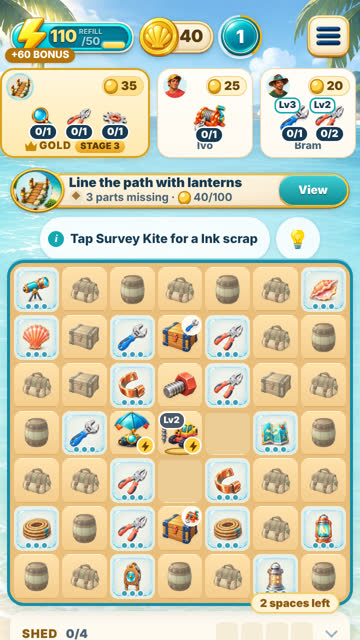
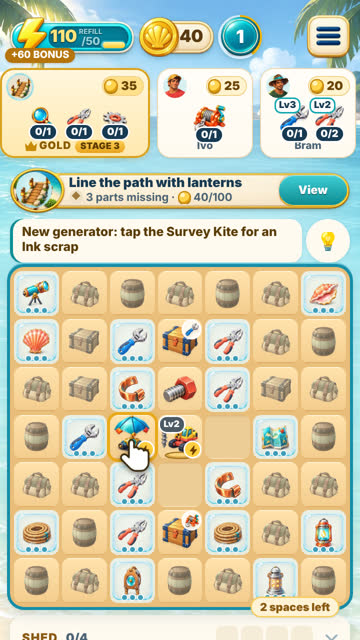
docs(v5): balance review of PR #105: rare crew goals, gold-first player, Kite discoverability
Asked/delivered/replaced rare crew orders, rare gold waits and repeats
for the normal, guide-following and gold-first players on the baseline,
the previous head and the corrected head; seven corrections tried and not
kept, with their costs; the owner decision left open; readiness for a
real-device playtest.

Claude-Session: https://claude.ai/code/session_01TAHmUwn4kp7NVEG8e1ot8o

Changed region(s): [[0.0, 0.3125, 0.9778, 1.0]]

diff --git a/docs/V5_FIRST_10_MINUTES_2026-11-14.md b/docs/V5_FIRST_10_MINUTES_2026-11-14.md
@@ -156,7 +156,7 @@ That is a choice of what to tap and which order to work on, where before there w
 | **Generator pacing** | Kite at 6.8 / 8.5 / 13.7 min instead of 14 / 17.6 / 28 (normal, whole-game run). The Rope Winch still comes from the Kite's level 3; the Kite's copies (Workshop and later stages) are unchanged. The Rover's level 3 brings nothing new now (it still makes better parts). | Earlier second generator only |
 | **Inventory** | Items on the board at 10 min: 2–7 (before 3–6); full-board actions 0%. With two chains the board holds a few more parts. | Fine |
 | **Later chapters** | Whole game, 12 seeds × 4/5/6 s: every run finishes; total time 350 → 354, 438 → 439, 526 → 530 min (+0–1%). Gold-first Chapter 1: 133 → 128, 170 → 160, 272 → 253 min. | Unchanged |
-| **Rare crew orders (owner review)** | Level 3 rare crew asks 16 → median 11 / 7 / 14 a game (4/5/6 s; min 6). Level 2: 42 → 53 / 45 / 53. Level 2 + 3 together: 58 → 64 / 52 / 67. With the Kite out earlier, the notes chain is asked at Level 2 more on the beach, which uses the drops a Level 3 ask needs. **The guard test changed** from "Level 2 ≥ 30 and Level 3 ≥ 10" to "Level 2 ≥ 30, Level 2 + 3 ≥ 45, Level 3 ≥ 5" (`tests/v5-next-build52a.test.mjs`). | **Trade-off: fewer hard rare crew goals** |
+| **Rare crew orders** | **Corrected on 2026-11-15 (§9).** On `3808698` the Kite reshuffled the order stream: Level 3 rare crew asks 16 → 7–14 a game, and only 3.3 of them delivered (baseline 9.0). The "ladder" rule in `secondaryNeed` brings back 21 asks and 9.0 deliveries a game. The original guard (Level 2 ≥ 30, Level 3 ≥ 10) is restored and passes on its seeds and on 36 more runs. | Restored; see §9 for the rare-gold-wait trade-off |
 | **Crew-order repeats (gold-first)** | An everyday order repeating one of the last four: 5.7% → 13% for the gold-first player (normal player 2.2% → 2.5–3.1%). | Minor; watch |
 
 ## 5. Saves, cloud and existing players
@@ -185,7 +185,10 @@ That is a choice of what to tap and which order to work on, where before there w
 | `tests/v5-next-first10.test.mjs` (new) | Rule, save-compatibility and first-10-minutes simulation guard |
 | `tests/v5-next-first10-policy.mjs`, `tests/v5-next-first10-metrics.mjs` (new) | The guide player and the measurements |
 | `tests/v5-next.test.mjs`, `tests/v5-next-economy-sim.mjs` | Updated for the tent's Kite; the harness also counts a generator a stage gives |
-| `tests/v5-next-build52a.test.mjs` | The rare-demand guard (§4) |
+| `tests/v5-next-build52a.test.mjs` | The original rare-demand guard, restored (§9) |
+| `v5/next/game.mjs` (2026-11-15) | `secondaryNeed`: the Level 3 "ladder" (§9) |
+| `v5/next/app.mjs` (2026-11-15) | A guide note points at a newly arrived generator once; the Daily-gift rule keyed to the camp's moves at page load (§9) |
+| `tests/v5-next-kite-browser.cjs` (new, in CI) | The Kite's card, reward, guide note and first part; no gift popup in a new camp's first session |
 
 **To revert the gameplay change:** restore the one `areas.mjs` line (`effect:{energy:8}` and its lines). The UI changes are independent of it.
 
@@ -217,3 +220,123 @@ That is a choice of what to tap and which order to work on, where before there w
 - **The energy pill** ("100 /50 +50 BONUS") is unchanged.
 - **WebKit** is tested in CI only (not installed in this sandbox).
 - **No claim** of a retention, playtime or conversion change until CrazyGames analytics on a released build show it.
+
+## 9. Balance review and corrections (2026-11-15)
+
+**Owner decisions:**
+- **Kept:** the Survey Kite from the camp tent, the quiet guide purpose line, no Daily-gift interruption for new players, existing saves and UI.
+- **To correct:** the weakened rare-order guard, the gold-first player's repetition and rare-gold waits, and the Kite's discoverability.
+
+Measured on three trees: the baseline `6bbee67`, the PR #105 head `3808698`, and the corrected head. Sources:
+- `rarefate.mjs`: asked, delivered and replaced rare crew orders; normal player, whole game, 18 runs.
+- `rare2.mjs`: the guard counts; 12 seeds × 4/5/6 s.
+- `goldwait.mjs`: rare gold-order waits, normalised per second-per-action; 36 runs per player.
+- `guidech1.mjs`: the guide-following player, Chapter 1, 12 runs.
+- `repeats.mjs`: crew-order repeats.
+
+All are in `docs/evidence/v5-first-10-minutes-2026-11-14/balance-review/`.
+
+### 9a. Rare crew orders: why Level 3 fell, and the correction
+
+**Cause.** `secondaryNeed` lists the merged parts the player can make now (a Level 2 from two held Bolts) before the goals a few drops away (where a Level 3 is). So a Level 3 was asked mostly by accident: when the Level 2 happened to be among the last four asks and was skipped. The Kite changed which orders came first, so the Level 2 was asked again and again. It used the drops two at a time, and Level 3 seldom came up.
+
+**Correction (`v5/next/game.mjs`, `secondaryNeed`, one rule): climb the ladder.** A chain whose Level 2 one of the recent everyday orders asked is asked its Level 3 next. This applies only when the Level 3 is a goal within the existing allowance:
+- `goalMax` drops away;
+- one goal at a time;
+- a generator that can drop.
+
+No rates, rewards or recipes change.
+
+**Whole game, normal player:**
+
+| | Baseline | PR #105 head | Corrected |
+|---|---|---|---|
+| Level 3 crew asks / delivered / replaced unfinished, per game | 16 / **9.0** / 7 | 10.6 / **3.3** / 7.1 | 21 / **9.0** / 11 |
+| Level 2 crew asks / delivered / replaced | 42 / 23 / 18 | 49 / 32.7 / 14.9 | 51 / 32 / 18 |
+| Original guard seeds (1–3, 5 s): Level 3 asks | 16 ✓ | 7 ✗ | 21 ✓ |
+| 12 seeds × 4/5/6 s: Level 3 asks, minimum | 16 | 6 | **21** (Level 2 minimum 51) |
+| Total game time, 4/5/6 s (median, min) | 350.5 / 438.5 / 526 | 354.5 / 439 / 530 | 352 / 440 / 528 |
+| Wait of a delivered Level 3 crew order (median / 90th percentile, min) | 4.7 / 39 | — | 2.1 / 47 |
+| Energy starvation | 0 | 0 | 0 |
+
+**The original guard is restored** (`tests/v5-next-build52a.test.mjs`: Level 2 ≥ 30, Level 3 ≥ 10). Delivered Level 3 rare crafting is back to the baseline's 9 a game, total time is unchanged, and there is no starvation. A Level 3 card is replaced unfinished more often than before (11 against 7 a game). That happens when a stage's new gold order takes the lane of the least-progressed crew order, which is baseline behaviour.
+
+### 9b. Rare gold-order waits (per second-per-action; ×5 = minutes at 5 s an action)
+
+| Player | Baseline: median / 90th pct / 99th pct / max | PR #105 head | Corrected |
+|---|---|---|---|
+| Normal (whole game, 36 runs) | 0.43 / 0.85 / 0.96 / 0.99 | 0.36 / 0.91 / 1.18 / 1.24 | 0.40 / 0.86 / **1.33 / 1.38** |
+| Gold-first (Chapter 1, 36 runs) | 0.47 / 0.88 / 1.36 / 1.36 | 0.46 / 1.11 / 1.48 / 1.49 | same as PR #105 head |
+| Guide-following (Chapter 1, 12 runs) | 0.49 / 1.30 / – / 3.2 | 0.46 / 1.08 / – / 2.66 | 0.39 / **1.64** / – / 3.49 |
+
+**What this shows:**
+- The median and the typical wait are unchanged or better.
+- **The slowest rare gold orders wait longer:**
+  - normal player: 99th percentile 0.96 → 1.33, about +1.9 min at 5 s an action;
+  - guide-following player: 90th percentile 1.30 → 1.64.
+- These are two stages: the Vault door's ring (a Gear assembly) and the harbour registry's Travel notebook. Both need four drops.
+- With Level 3 crew goals restored, the drops the player held when those gold orders arrived had been spent on a crew goal. In a traced case, 3 drops were still needed in the baseline and 4 after the correction.
+- The gold order's own guaranteed drop (`goldChase`) still bounds the wait.
+- **The gold-first player's longer waits come from the Kite change itself.** They are identical on the PR #105 head and the corrected head. In a traced case (the Vault door), a "1 Gear" crew order was on the board when the Gear-assembly gold order arrived, and took two of its drops. In the baseline that lane happened to hold a notes order.
+
+### 9c. Crew-order repetition (an everyday order asking the same parts as one of the last four)
+
+| Player | Baseline | PR #105 head | Corrected |
+|---|---|---|---|
+| Normal (whole game) | 2.2% | 2.5–3.1% | 4.2% |
+| Gold-first (Chapter 1) | 5.7% | 13% | 13% |
+| Guide-following (Chapter 1) | 3.2% | 5.0% | 5.3% |
+
+The gold-first repeats are "1 Gear" and "1 Expedition note". The gold-first player rarely delivers crew orders. When a stage's gold order arrives, it takes the lane of the least-progressed crew order, often that rare card. The next everyday order then asks the same rare part again, because the player still holds its drops.
+
+### 9d. Corrections tried and not kept (all measured; normal-player time is whole game at 4/5/8 s against 351 / 439 / 702 min)
+
+| Attempt | Effect on the problem | Cost | Kept? |
+|---|---|---|---|
+| A repeated rare ask is skipped (an ordinary order instead) | gold-first repeats 13% → 1.3%; gold-first rare-gold max 1.36 → about 0.8 per s/action | normal player's game +8% (378 / 473 / 757): rare crew orders pay 35–70 coins, and fewer of them slow every stage | No |
+| A repeated rare ask is paired with a modest part of another chain | repeats 1.4% | game +9% | No |
+| Only repeated rare *goals* skipped (uses kept) | repeats 1.3% | game +11% | No |
+| A gold order takes an ordinary crew lane before a rare one | repeats 5.3% | rare cards pile up: Level 3 delivered 9 → 5; normal rare-gold max 17 min at 8 s | No |
+| Ladder only when the Level 3 is one drop away | rare-gold 99th percentile 1.20 | Level 3 delivered 6 a game (baseline 9); game +4–5% | No |
+| Ladder off for chains an open stage still needs | no effect (the slow stages are not yet open when the crew goal is asked) | — | No |
+| A crew goal on the gold order's rare chain gives its place to a new order | — | guide player: Chapter 1 32 → 46 time units, starvation up to 226 min | No |
+
+**Owner decision needed:**
+- **Keep the ladder (this PR):** the original guard and the baseline's Level 3 crafting, with a longer worst-case rare-gold wait at two four-drop stages.
+- **Revert it (one block in `secondaryNeed`):** the PR #105 head's numbers, but Level 3 delivered drops to 3.3 a game and the original guard fails.
+
+**Gold-first repetition** has no minimal fix that does not slow the ordinary player. It is reported, not changed. Reward values and gold recipes are unchanged in every variant.
+
+### 9e. Survey Kite discoverability (existing systems only, nothing blocking)
+
+| When | What the player sees |
+|---|---|
+| Before building the tent | The coast card: "Unlocks a new generator: the Survey Kite". The previous restored card's next line: "Next: Pitch the camp tent · unlocks the Survey Kite". |
+| On Build | The reward: "a new generator: the Survey Kite". Neri's two lines: "my Survey Kite is dry at last … Tap the Kite for charts and lenses. The crates the Rover cannot open take its parts." The toast "New generator: Survey Kite!" lists its whole chain (Ink scrap → …). |
+| **Back on the board (new)** | The guide line's own note, once, for about 7 s: "New generator: tap the Survey Kite for an Ink scrap". The Kite is highlighted with the pointing hand; nothing blocks. |
+| Afterwards | The hint line names the Kite whenever an order needs its parts ("Tap Survey Kite for an Ink scrap"). Its canvas crates show the Kite part that opens them. Help: "The Survey Kite comes with the camp tent". |
+
+Checked at 360×640, 390×664, 390×844, 430×932 and 907×510. The new `tests/v5-next-kite-browser.cjs`, in CI for Chromium and WebKit, checks:
+- the card and the reward;
+- the note and the highlight;
+- that a tap on the Kite makes its part;
+- that a new camp's first session gets no gift popup.
+
+### 9f. A Daily-gift fix found by the new test
+
+PR #105 recorded the camp's progress for the gift rule the first time the once-a-second check ran with Home closed. For a new player, Home stays logically open until the first actions. So that first check could run after three moves and treat the new camp as a returning one, and the gift popped up after Skip guide. The baseline is now taken from the camp as the page loads it, before any input. A camp swapped in later is noted when it appears.
+- A returning camp still gets the gift by itself (`v5-next-browser.cjs`, 360/390/430 px).
+- A new camp does not (`v5-next-kite-browser.cjs`).
+
+### 9g. Ready for real-device player testing?
+
+**Yes, for a playtest, not for release.**
+- All unit tests pass (494), and CI runs every Coast Camp suite in Chromium and WebKit on the PR head.
+- Saves are untouched.
+- The first-10-minutes measurements are unchanged by these corrections: the ladder acts later in the game.
+
+**Still open, for the playtest and the owner:**
+- **The rare-gold tail (§9b):** the longer worst-case wait at the Vault door ring and the harbour registry. It is reached 2–7 hours in, beyond a first playtest session.
+- **Gold-first repetition (§9c):** players who skip crew orders see the same rare card return after a gold order.
+- **Whether new players read the Kite note:** a 7-second note with a hand. The playtest should watch for it.
+- **CrazyGames numbers:** no retention claim until CrazyGames data on a released build.
